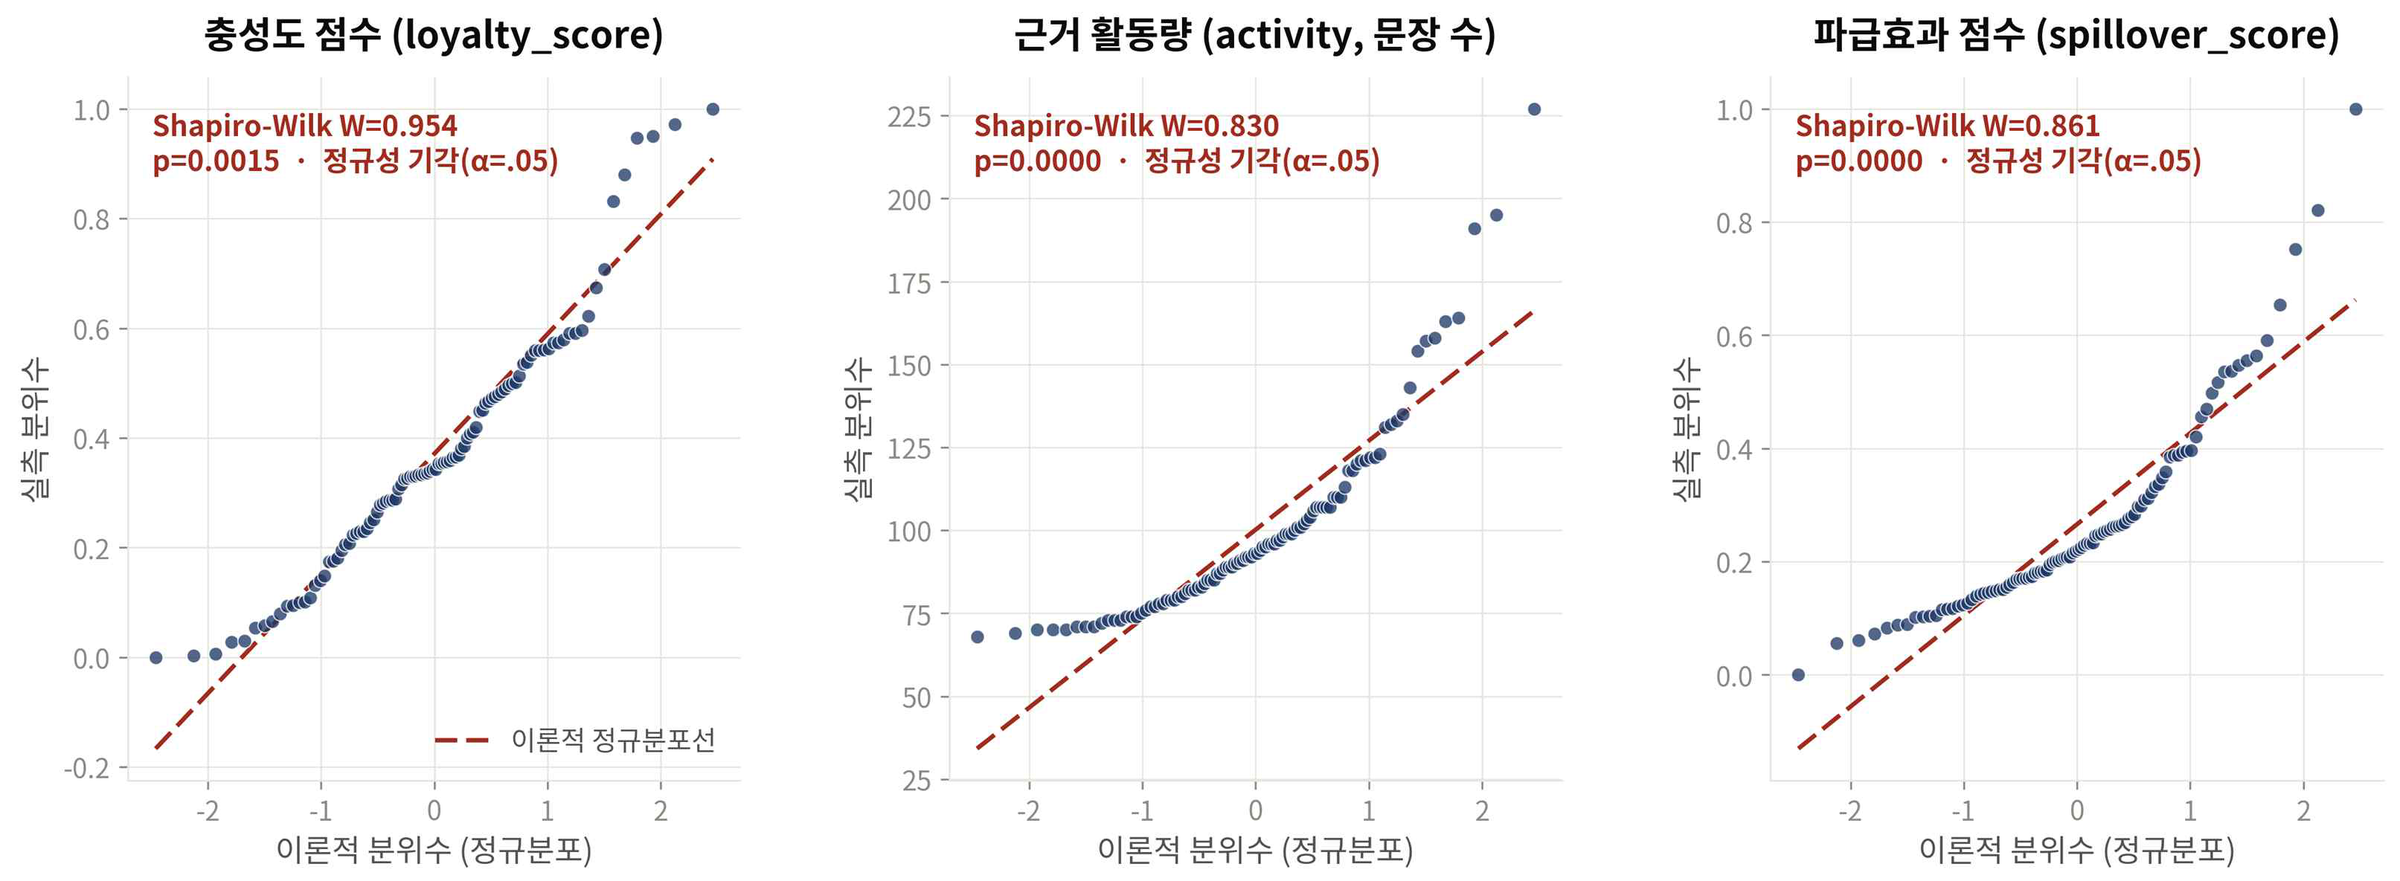
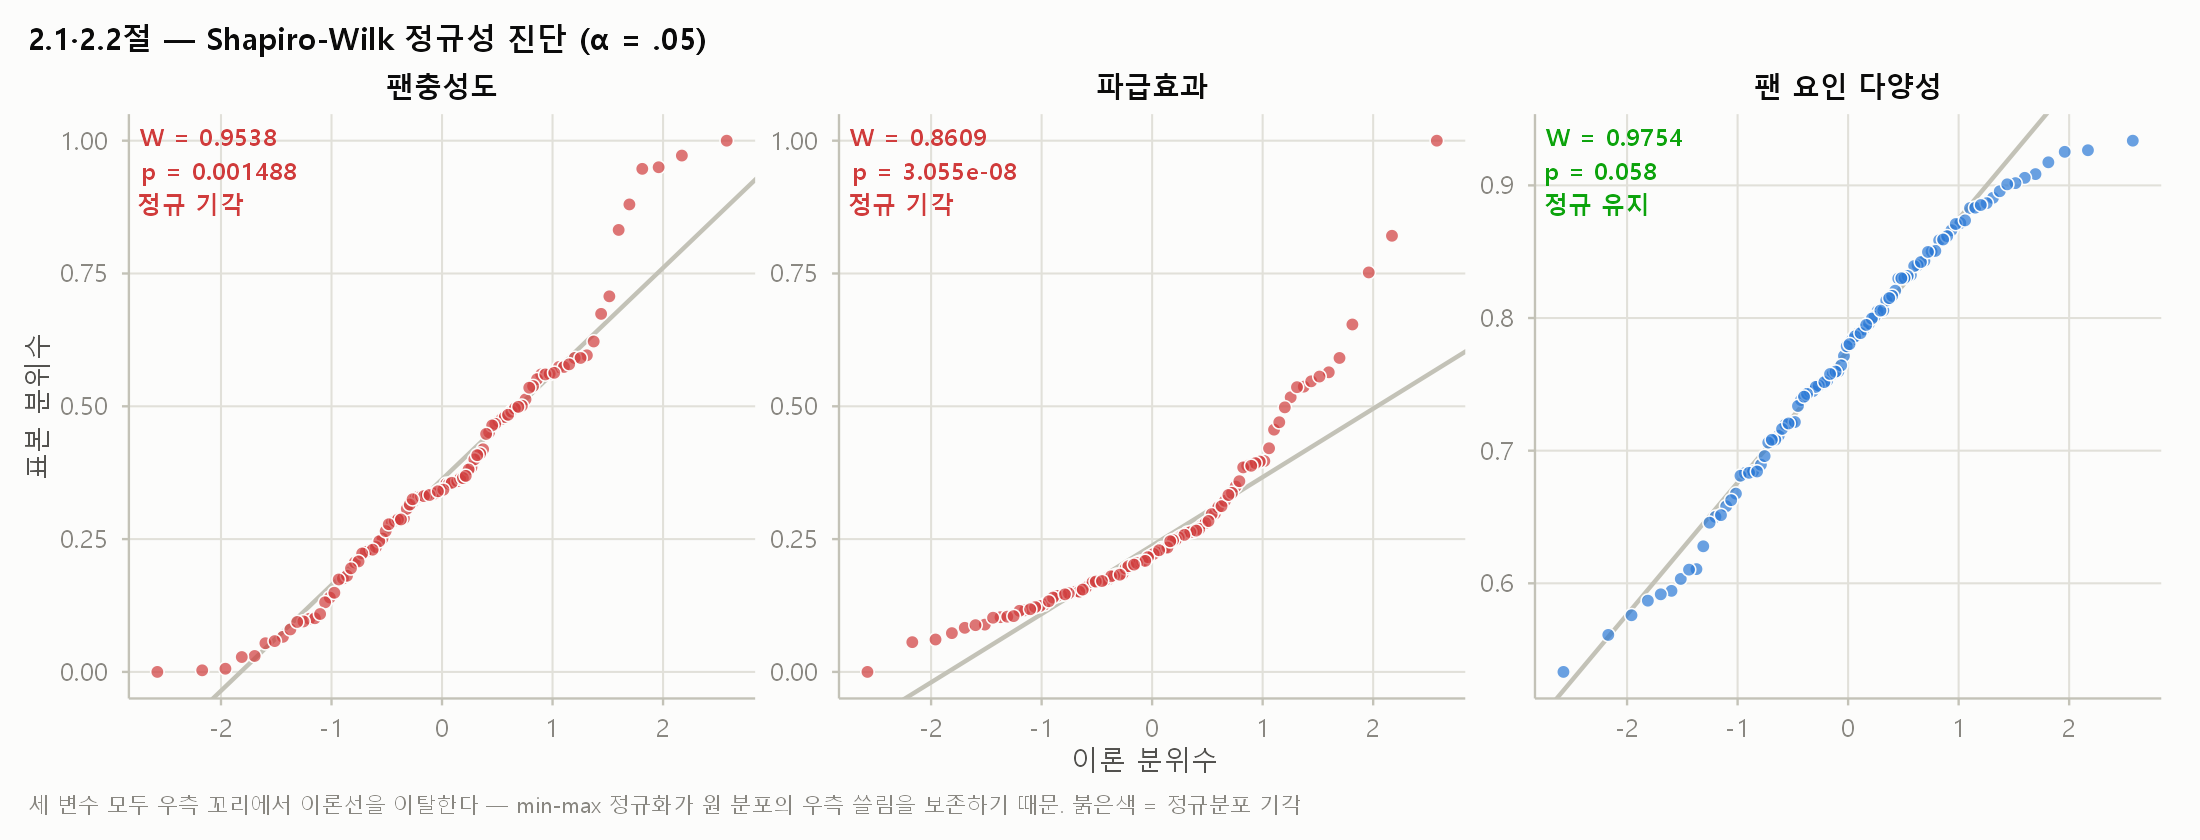
README Q-Q plot을 R(ggplot2) 산출 그림으로 교체
Claude-Session: https://claude.ai/code/session_01VWuqhk8UFpTen2BecLssSX

diff --git a/README.md b/README.md
@@ -86,7 +86,7 @@ flowchart LR
 
 ![Q-Q Plot](assets/readme/fig04_qq_plot.png)
 
-*그림 4. 충성도·활동량·파급효과의 Q-Q plot — 세 변수 모두 우측 꼬리에서 정규선을 벗어난다(Shapiro-Wilk p<.05). 통계량 전부는 `Statistics/R_통계검증/`(R)과 `Statistics/verify_r_sections_python.py`로 238/238 재현.*
+*그림 4. R(`Statistics/R_통계검증/R/plots.R`, ggplot2)로 그린 Q-Q plot — 팬충성도(W=0.954, p=0.0015)와 파급효과(W=0.861, p<.001)는 우측 꼬리에서 이론선을 벗어나 정규분포가 기각되고, 팬 요인 다양성(W=0.975, p=0.058)은 정규성이 유지된다. min-max 정규화가 원 분포의 우측 쏠림을 그대로 보존하기 때문이다. 통계량 전부는 같은 R 패키지와 `Statistics/verify_r_sections_python.py`로 238/238 재현.*
 
 ---
 
